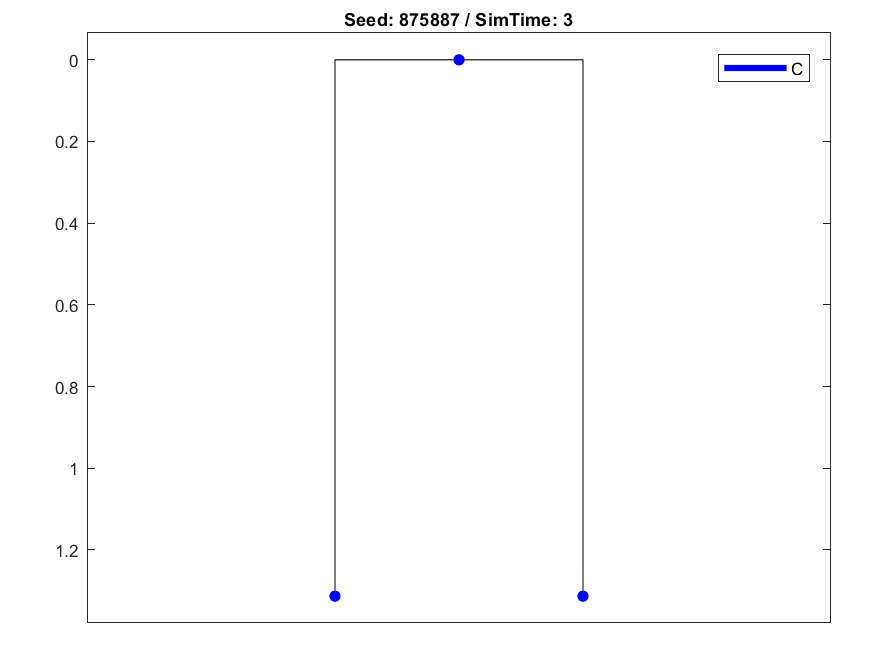
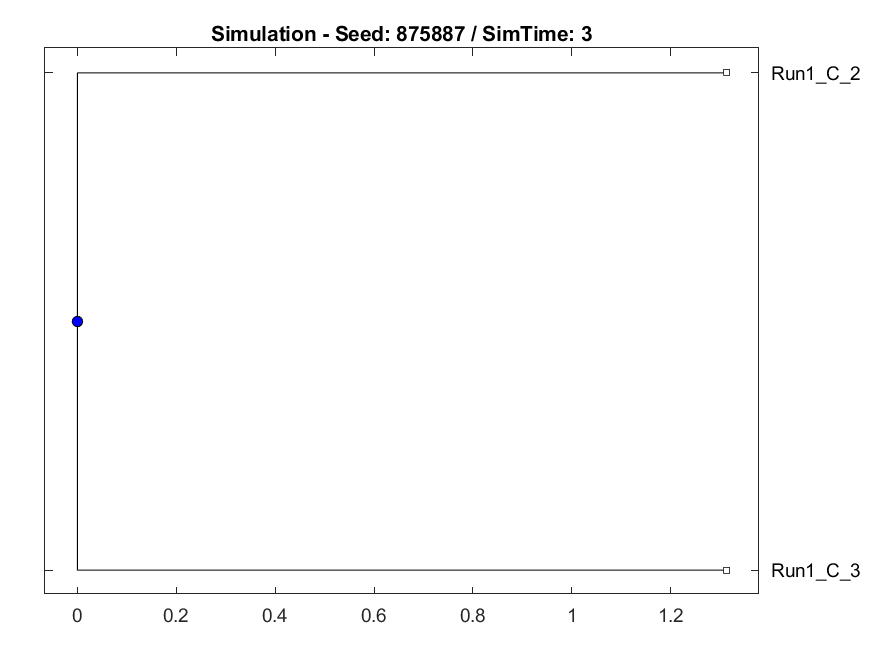
Update

diff --git a/src/simulation/create_tree.m b/src/simulation/create_tree.m
@@ -1,33 +1,52 @@
 function create_tree(rules, my_run, path_newick, path_png)
 
-% get the root node
-root_node = my_run.Nodes{1}(1);
+    % get the root node
+    root_node = my_run.Nodes{1}(1);
 
-% generate tree
-T = generateTree(rules, my_run.Nodes, root_node, my_run.NameInds, my_run.Name);
+    % generate tree
+    T = generateTree(rules, my_run.Nodes, root_node, my_run.NameInds, my_run.Name);
 
-phytree_obj = T.tree;
+    phytree_obj = T.tree;
 
-% reroot if necessary
-%phytree_obj = reroot(T.tree, getbyname(T.tree, root_node.Name, 'Exact', true));
+    % reroot if necessary
+    %phytree_obj = reroot(T.tree, getbyname(T.tree, root_node.Name, 'Exact', true));
 
-% save as newtick
-phytreewrite(...
-    path_newick, ...
-    phytree_obj, ...
-    'Distances', 'false', ...
-    'BranchNames', 'false' ...
-);
+    % save as newtick
+    phytreewrite(...
+        path_newick, ...
+        phytree_obj, ...
+        'Distances', 'false', ...
+        'BranchNames', 'false' ...
+    );
 
-% make distinguishable colors
-colors = distinguishable_colors(100, 'w');
+    %plot1(T.tree, rules.AllNames);
+    plot2(T.tree);
 
-% draw tree
-plot_generated_tree(T.tree, colors, rules.AllNames);
+    % set plot title with seed number and simulation time
+    ha = gca;
+    ha.Title.String = sprintf('Simulation - Seed: %d / SimTime: %d', rules.Seed, rules.SimTime);
 
-% set plot title with seed number and simulation time
-ha = gca;
-ha.Title.String = sprintf('Seed: %d / SimTime: %d', rules.Seed, rules.SimTime);
+    % save as png file
+    saveas(gcf, path_png, 'png');
 
-% save as png file
-saveas(gcf, path_png, 'png');
+    
+    function [] = plot1(tree, node_names)
+    % plot tree using eSTGt plotter
+    % this doesn't add labels currently
+    
+        % make distinguishable colors
+        colors = distinguishable_colors(100, 'w');
+
+        % draw tree
+        plot_generated_tree(tree, colors, node_names);
+        
+    end
+
+    function [] = plot2(tree)
+    % plot tree using MATLAB built-in function
+    
+        plot(tree);
+        
+    end
+    
+end

diff --git a/test.py b/test.py
@@ -14,19 +14,13 @@ def run_command(cmd):
 def simulate(path_matlab):
     "run simulation"
 
-    # path_matlab='/usr/wisdom/matlabR2017a/bin'
-    # path_matlab='/Applications/MATLAB_R2017b.app/bin'
-    # path_matlab='C:\\Program Files\\MATLAB\\R2017b\\bin'
-
-
     path_eSTGt='./eSTGt/eSTGt'
     path_simul_lib='./src/simulation'
 
     path_working='./examples/example-01'
     path_working='./analysis/tmc'
 
-    
-
+    # run MATLAB simulation
     matlab_code = "addpath('{0}', '{1}', '{2}'); run_simul('{2}', '{3}'); exit;".format(
         path_eSTGt, path_simul_lib, path_working, 'config-01.json'
     )
@@ -38,6 +32,19 @@ def simulate(path_matlab):
     ]
 
     run_command(cmd)
+
+    import dendropy
+
+    # read simulation.newick
+    tree = dendropy.Tree.get_from_path(
+        os.path.join(path_working, 'simulation.newick'),
+        "newick"
+    )
+
+    # write ascii plot for simulation tree
+    with open(os.path.join(path_working, 'simulation.ascii_plot.txt'), 'wt') as fout:
+        fout.write(tree.as_ascii_plot())
+        fout.write('\n')
 
 
 def main():
